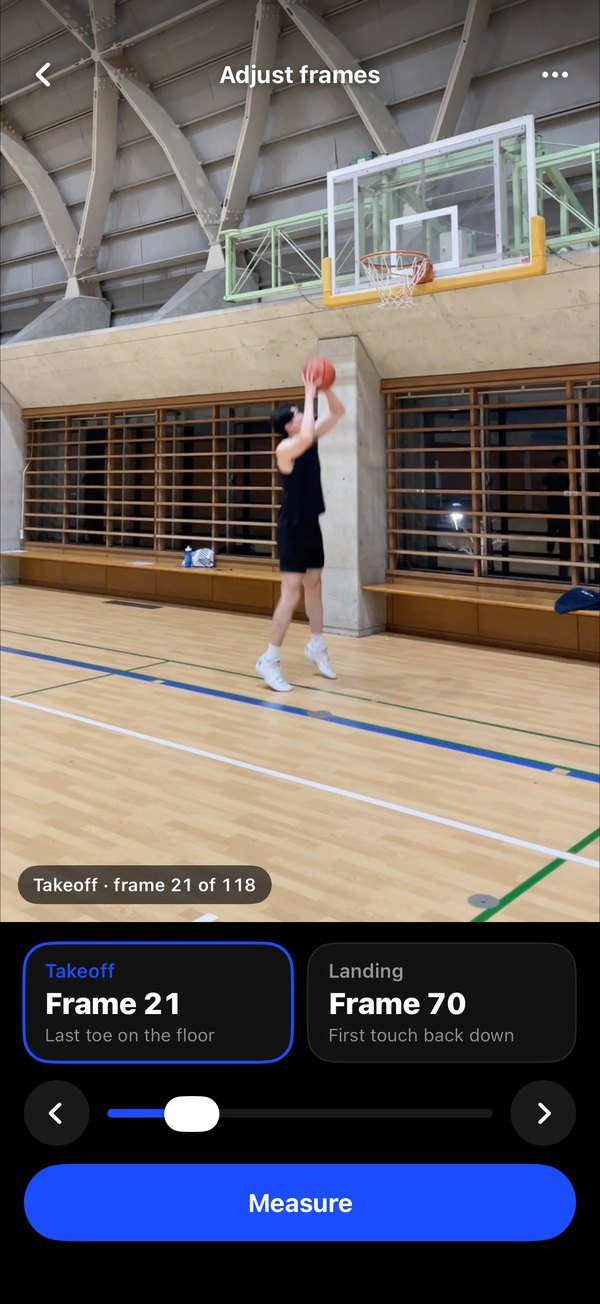
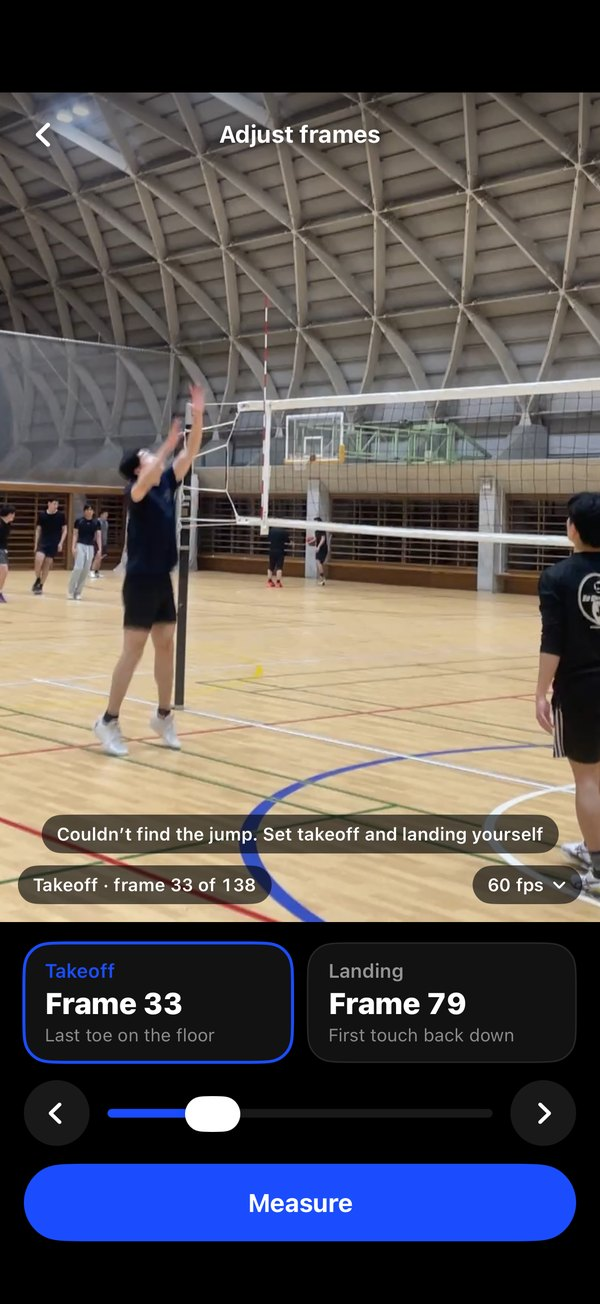
Precision shows Adjust frames on a volleyball spike, filmed sideways, takeoff frame 33 of 138 at 60 fps

diff --git a/index.html b/index.html
@@ -222,7 +222,7 @@
         <h2>Precision.</h2>
         <p>Ascent finds takeoff and landing for you. Adjust manually afterwards to find the exact jump height.</p>
       </div>
-      <div class="phone"><img src="adjust-full.jpg" alt="Adjusting frames on a dunk, takeoff at frame 21 of 118 and landing at frame 70, one frame at a time" loading="lazy"></div>
+      <div class="phone"><img src="adjust-full.jpg" alt="Adjusting frames on a volleyball spike, takeoff at frame 33 of 138 and landing at frame 79, one frame at a time" loading="lazy"></div>
     </div>
 
     <div class="row">
